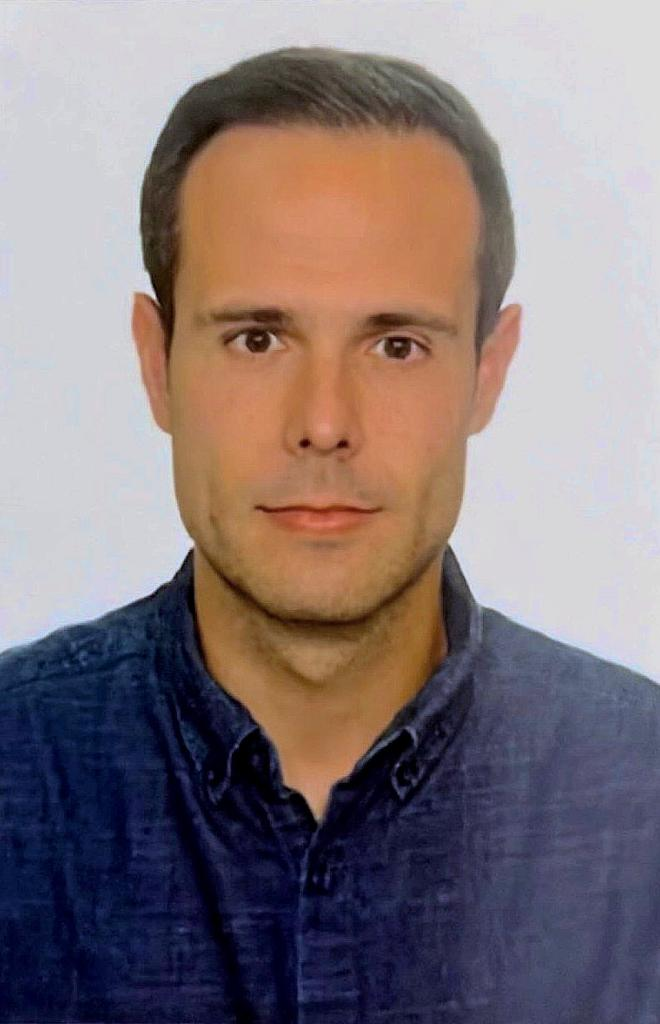
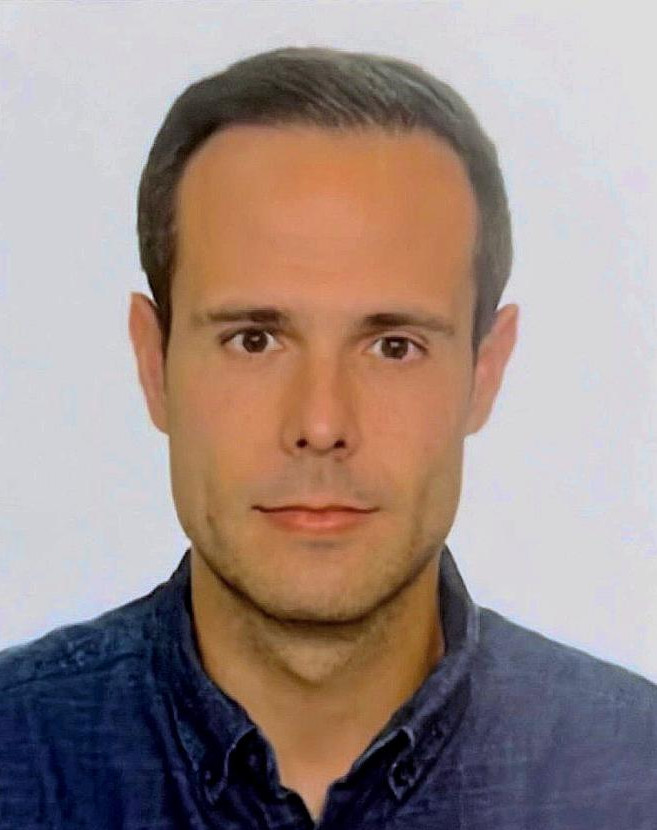
Refactor impact page content for clarity and update references with new publications

diff --git a/content/es/impact/_index.md b/content/es/impact/_index.md
@@ -3,7 +3,9 @@ title: "Impacto"
 layout: "simple"
 ---
 
-Esta página recoge el impacto del proyecto: publicaciones científicas, participación en congresos y charlas, difusión y colaboraciones. Es **editable libremente** en Markdown; puedes añadir vídeos, enlaces u otros contenidos.
+Esta página recoge el impacto del proyecto: publicaciones científicas, participación en congresos y charlas, difusión y colaboraciones.
+
+<!-- Es **editable libremente** en Markdown; puedes añadir vídeos, enlaces u otros contenidos. -->
 
 <!-- TODO: añadir difusión, charlas, congresos, colaboraciones y vídeos -->
 
@@ -13,4 +15,3 @@ Esta página recoge el impacto del proyecto: publicaciones científicas, partici
 
 ## Difusión y colaboraciones
 
-TODO: añadir difusión, charlas, congresos, colaboraciones y vídeos.

diff --git a/content/en/impact/_index.md b/content/en/impact/_index.md
@@ -3,7 +3,9 @@ title: "Impact"
 layout: "simple"
 ---
 
-This page gathers the project's impact: scientific publications, conference participation, talks, dissemination and collaborations. It is **freely editable** in Markdown; you can add videos, links or other content.
+This page gathers the project's impact: scientific publications, conference participation, talks, dissemination and collaborations.
+
+<!-- It is **freely editable** in Markdown; you can add videos, links or other content. -->
 
 <!-- TODO: add dissemination, talks, conferences, collaborations and videos -->
 
@@ -13,4 +15,3 @@ This page gathers the project's impact: scientific publications, conference part
 
 ## Dissemination and collaborations
 
-TODO: add dissemination, talks, conferences, collaborations and videos.
